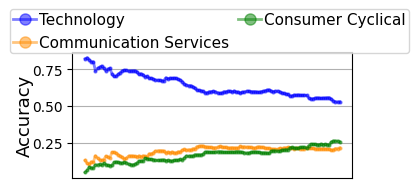
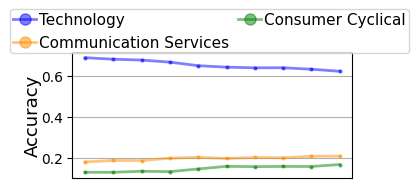
CR

Changed region(s): [[0.0311, 0.2926, 0.8397, 0.9309]]

diff --git a/experiments/stocks/stock_nanosecond/end2end/CR/fig_CR.py b/experiments/stocks/stock_nanosecond/end2end/CR/fig_CR.py
@@ -41,8 +41,8 @@ print(df[:2])
 
 
 
-time_start = pd.Timestamp('2024-10-15 14:00:05.60', tz='UTC')
-time_end = pd.Timestamp('2024-10-15 14:00:18.00', tz='UTC')
+time_start = pd.Timestamp('2024-10-15 14:00:10.00', tz='UTC')
+time_end = pd.Timestamp('2024-10-15 14:00:11.00', tz='UTC')
 
 
 df["timestamp"] = pd.to_datetime(df["timestamp"])
